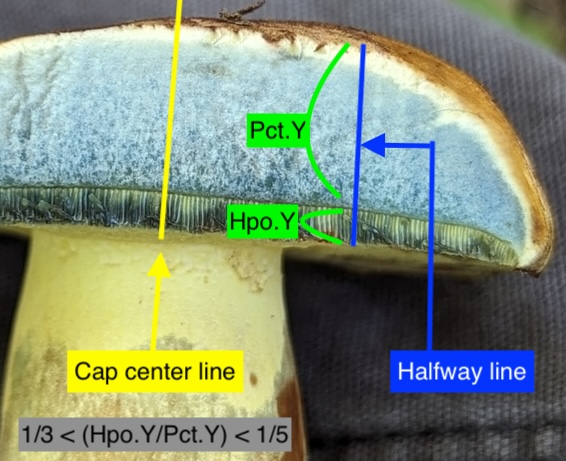
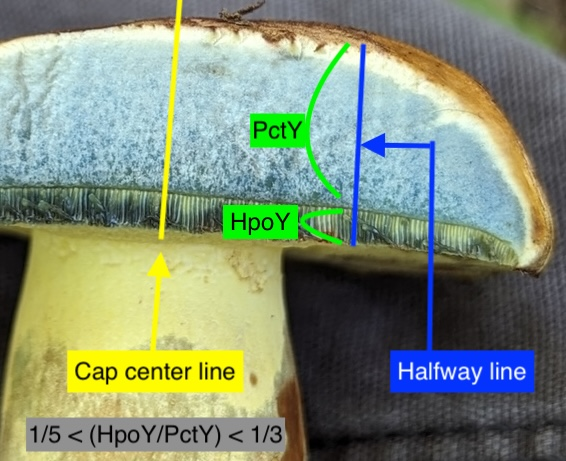
lanmaoa syntax update

Changed region(s): [[0.03, 0.9111, 0.5406, 1.0], [0.3905, 0.4252, 0.5406, 0.5466], [0.4205, 0.243, 0.5406, 0.3341]]

diff --git a/src/cms/content/taxon/lanmaoa.md b/src/cms/content/taxon/lanmaoa.md
@@ -7,7 +7,7 @@ references:
   - 'Wu, G., Zhao, K., Li, Y. C., Zeng, N. K., Feng, B., Halling, R. E., & Yang, Z. L. (2016). Four new genera of the fungal family Boletaceae. Fungal Diversity, 81, 1-24. https://doi.org/10.1007/s13225-015-0322-0'
 ---
 
-_Lanmaoa_ is a genus of boletes characterized by a thin pore height `Hpo.Y` to cap context height `Pct.Y` ratio in comparison to other bolete genera. This is when measured from the halfway point from the cap center to cap margin. The resulting ratio appears to be between 1/3 - 1/5 (Wu et al., 2016).
+_Lanmaoa_ is a genus of boletes characterized by a thin pore height `HpoY` to cap context height `PctY` ratio in comparison to other bolete genera. This is when measured from the halfway point from the cap center to cap margin. The resulting ratio appears to be between 1/3 - 1/5 (Wu et al., 2016).
 
 ![Equation](/img/lanmaoa.png)
 
